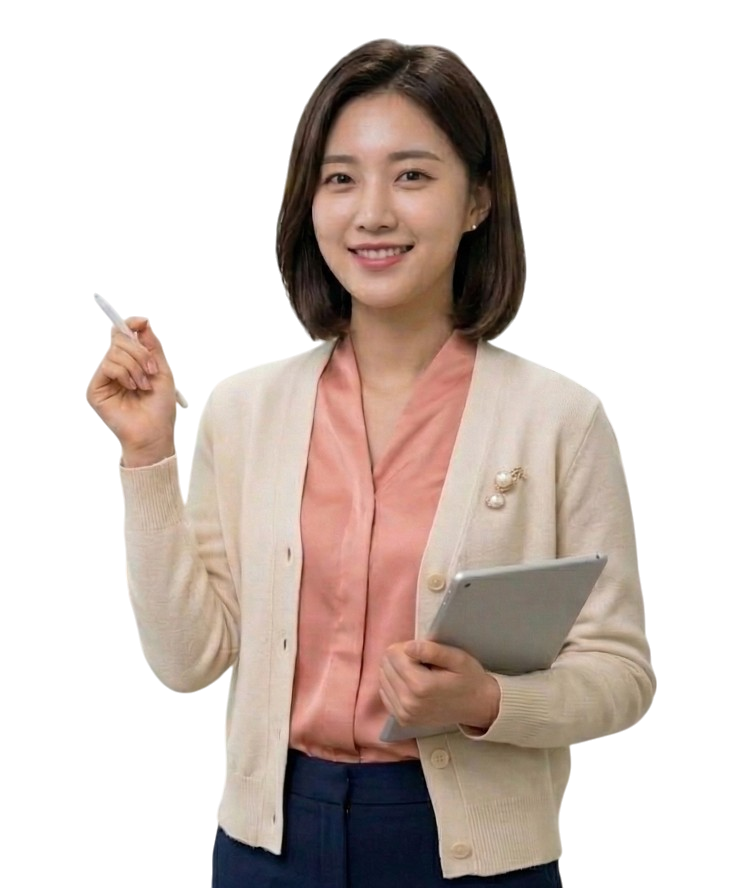
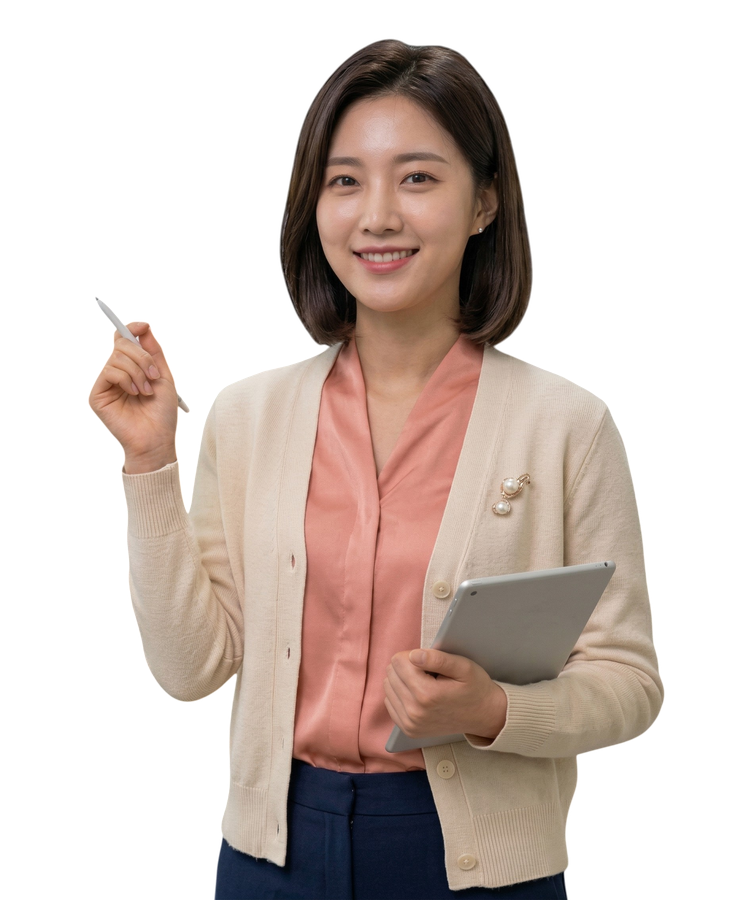
히어로 사람이미지 전체 교체 + 리사이즈 (900px 높이)
- man.png/woman.png → man1~3.png/woman1~3.png 파일명 변경
- 원본 1600~1900px → 높이 900px 기준 리사이즈 (히어로 영역 적합)
- man2.png imageScale 제거 (새 이미지 비율 정상)
- HeroSection 이미지 경로 업데이트

diff --git a/components/HeroSection.tsx b/components/HeroSection.tsx
@@ -21,7 +21,7 @@ const slides: Slide[] = [
     description: '전기기능사 · 승강기기능사 · 위험물기능사 · 가스기능사\n자격증 취득의 첫 걸음, 기초부터 탄탄하게',
     bgColor: '#071a12',
     accentColor: '#34d399',
-    personImage: '/hero/woman.png',
+    personImage: '/hero/woman1.png',
     personAlt: '기능사',
   },
   {
@@ -30,7 +30,7 @@ const slides: Slide[] = [
     description: '전기산업기사 · 소방설비산업기사(전기/기계)\n에너지 · 공조냉동기계 · 산업안전산업기사',
     bgColor: '#150d24',
     accentColor: '#a78bfa',
-    personImage: '/hero/man.png',
+    personImage: '/hero/man1.png',
     personAlt: '산업기사',
   },
   {
@@ -41,7 +41,6 @@ const slides: Slide[] = [
     accentColor: '#4f8cff',
     personImage: '/hero/man2.png',
     personAlt: '기사',
-    imageScale: 1.35,
   },
   {
     badge: '최고 등급',
